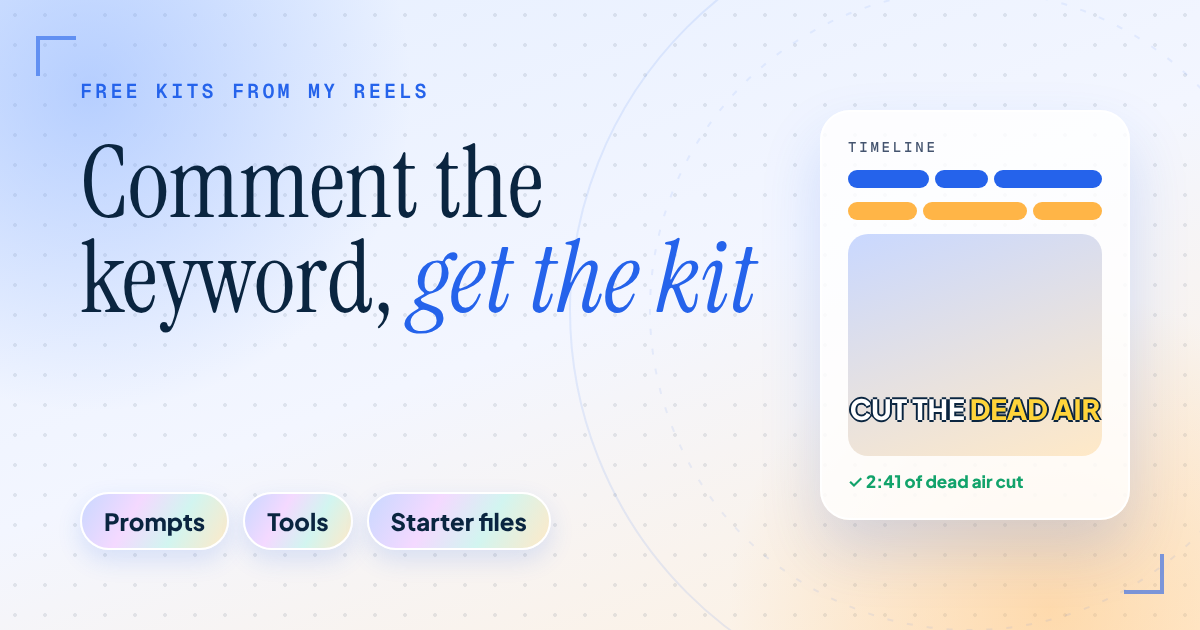
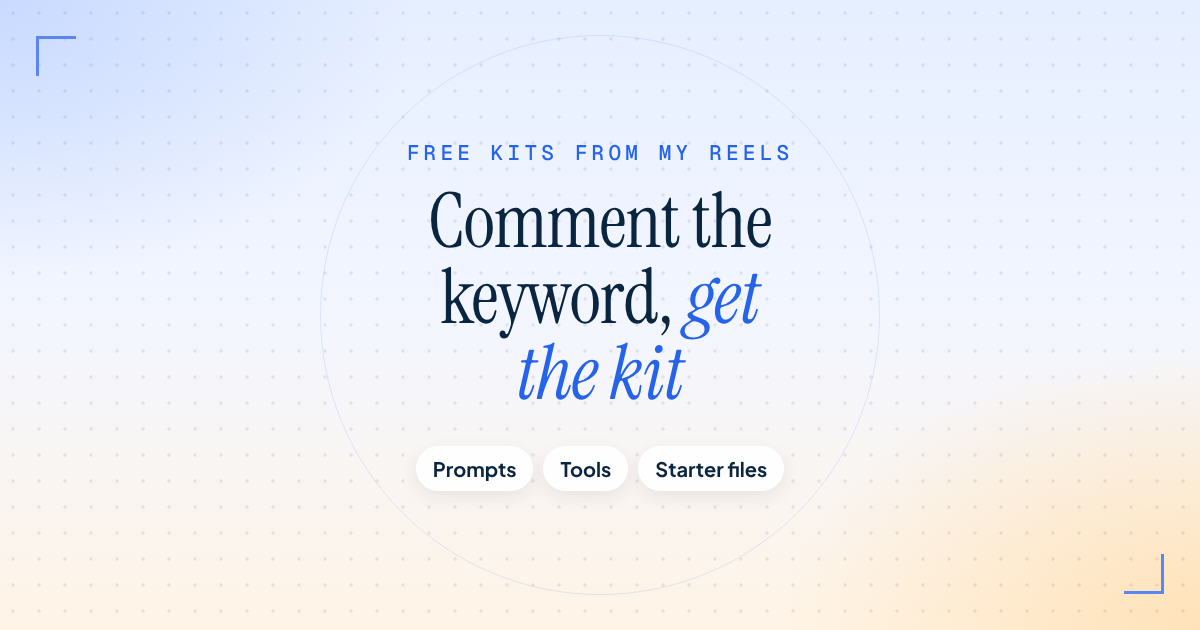
Readable link previews: FREE preview image, centred home image, og size tags (#8)
Chat apps often crop the preview to a centre square, which cut the big
left-aligned headline. New images keep the headline inside the centre square.

Claude-Session: https://claude.ai/code/session_01JWgzwA3ixeQFQ4NfZz2KgU

diff --git a/docs/free/index.html b/docs/free/index.html
@@ -7,7 +7,10 @@
 <meta name="description" content="ChatGPT, Notion, ElevenLabs and four more, each with a free open-source twin on GitHub. Links, what each one does, and the fine print.">
 <meta property="og:title" content="7 paid apps, free on GitHub">
 <meta property="og:description" content="ChatGPT, Notion, ElevenLabs and four more, each with a free open-source twin on GitHub. Links, what each one does, and the fine print.">
-<meta property="og:image" content="https://imrshn.github.io/reel-kits/assets/og-default.png">
+<meta property="og:image" content="https://imrshn.github.io/reel-kits/assets/og-free.png">
+<meta property="og:image:width" content="1200">
+<meta property="og:image:height" content="630">
+<meta property="og:image:alt" content="7 paid apps, free on GitHub">
 <meta property="og:url" content="https://imrshn.github.io/reel-kits/free/">
 <meta property="og:type" content="website">
 <meta name="twitter:card" content="summary_large_image">

diff --git a/docs/editor/index.html b/docs/editor/index.html
@@ -8,6 +8,9 @@
 <meta property="og:title" content="Claude Video Editor Kit">
 <meta property="og:description" content="Turn a raw clip into a captioned, ready-to-post vertical Reel. Starter files, the 3 prompts and the setup steps.">
 <meta property="og:image" content="https://imrshn.github.io/reel-kits/assets/og-editor.png">
+<meta property="og:image:width" content="1200">
+<meta property="og:image:height" content="630">
+<meta property="og:image:alt" content="Claude Video Editor Kit">
 <meta property="og:url" content="https://imrshn.github.io/reel-kits/editor/">
 <meta property="og:type" content="website">
 <meta name="twitter:card" content="summary_large_image">

diff --git a/docs/index.html b/docs/index.html
@@ -8,6 +8,9 @@
 <meta property="og:title" content="Reel Kits">
 <meta property="og:description" content="Free kits from my Instagram Reels. Type the keyword from the Reel to find yours.">
 <meta property="og:image" content="https://imrshn.github.io/reel-kits/assets/og-default.png">
+<meta property="og:image:width" content="1200">
+<meta property="og:image:height" content="630">
+<meta property="og:image:alt" content="Reel Kits">
 <meta property="og:url" content="https://imrshn.github.io/reel-kits/">
 <meta property="og:type" content="website">
 <meta name="twitter:card" content="summary_large_image">

diff --git a/scripts/build_site.py b/scripts/build_site.py
@@ -70,6 +70,9 @@ def head(title: str, desc: str, url: str, og: str, rel: str) -> str:
 <meta property="og:title" content="{esc(title)}">
 <meta property="og:description" content="{esc(desc)}">
 <meta property="og:image" content="{esc(og)}">
+<meta property="og:image:width" content="1200">
+<meta property="og:image:height" content="630">
+<meta property="og:image:alt" content="{esc(title)}">
 <meta property="og:url" content="{esc(url)}">
 <meta property="og:type" content="website">
 <meta name="twitter:card" content="summary_large_image">
